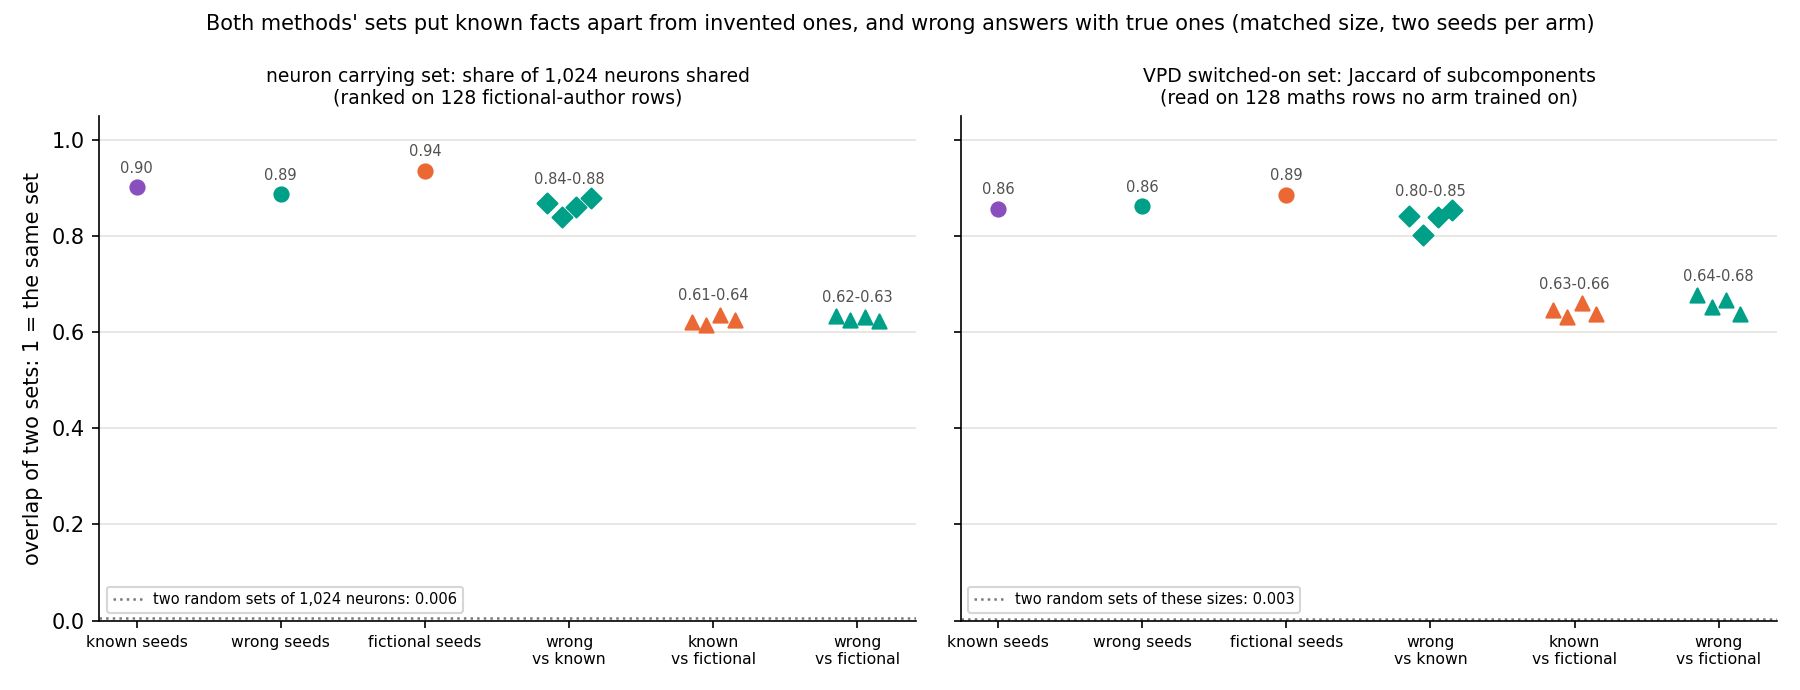
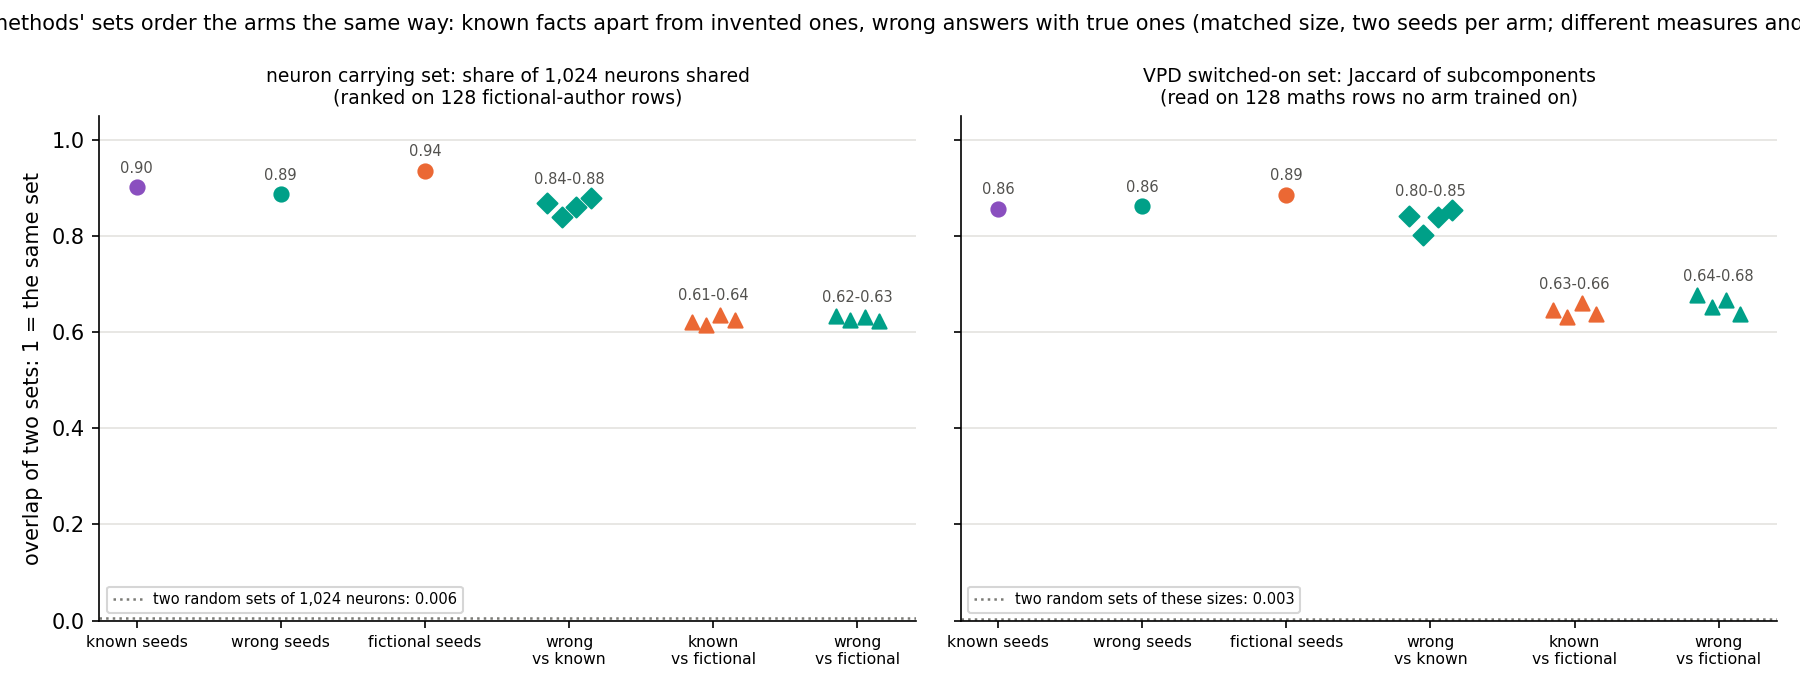
Neurons against VPD table: apply the independent check's five fixes; description class

Changed region(s): [[0.0, 0.0, 1.0, 0.0609]]

diff --git a/experiments/neuron_vpd_table/build.py b/experiments/neuron_vpd_table/build.py
@@ -35,7 +35,8 @@ E109 = EXP / "larger_size/results/score.json"
 E98, M67 = EXP / "neuron_r/results/score.json", EXP / "method_table/results/table.json"
 
 SEP, NOT, NOCALL, NOTRUN = "separates the pair", "does not separate the pair", "no call or no power", "not run"
-COLOUR = {SEP: "#2f7ebc", NOT: "#eb6834", NOCALL: "#c9c6bd", NOTRUN: "#ffffff"}
+DESC = "description, no filed verdict"
+COLOUR = {SEP: "#2f7ebc", NOT: "#eb6834", NOCALL: "#c9c6bd", NOTRUN: "#ffffff", DESC: "#e8e4f0"}
 PURPLE, TEAL, ORANGE, GREY, INK, GRID = "#8a4fbf", "#00a088", "#eb6834", "#7a7a75", "#52514e", "#e4e3df"
 
 
@@ -99,7 +100,8 @@ def known_vs_fictional() -> list[dict[str, Any]]:
     summ_n = cell(NOT, "all four pair rules: " + ", ".join(sorted({r["verdict"] for r in rules.values()})),
                   "; ".join(f"{k.removeprefix('matched_')} gap {r['gap']:+.4f} band {r['band']:.4f}" for k, r in rules.items()),
                   "fictional seeds' mean, band from random draws", E103, ".pair_rules_s142")
-    set_v = cell(SEP, "description only: no filed rule of its own; E107 Amendment 1 used it as its positive control",
+    set_v = cell(DESC, "description, on Jaccard only: no filed rule; on shared-over-smaller the gap is inside the seed "
+                       "band (E107 Amendment 1 blind_to), and the fictional sets are larger",
                  f"Jaccard known seeds {jac['known_s42_matched|known_s142_matched']:.3f}, fictional seeds "
                  f"{jac['a2_s42_matched|a2_s142_matched']:.3f}, known vs fictional {rng(cross)}",
                  "the two arms' seed Jaccards", E107A, ".pairs")
@@ -109,7 +111,7 @@ def known_vs_fictional() -> list[dict[str, Any]]:
                  f"cross {rng(ident['tofu']['cross'])}; disjoint halves of the known rows {rng(rows['tofu']['cross'])}",
                  "band = 1 minus the fictional seeds' overlap", E103, ".identity; rows_null score .real/.tofu .verdict")
     e = a["end"]
-    end_v = cell(NOT, f"outside '{e['outside']['verdict']}', placement '{e['placement']['verdict']}', think "
+    end_v = cell(DESC, f"outside '{e['outside']['verdict']}', placement '{e['placement']['verdict']}', think "
                       f"'{e['think']['verdict']}' (reported, sizes 2.2x apart)",
                  f"f outside {e['outside']['f']:.2f}, think {e['think']['f']:.2f}", "as at matched size", E94A, ".sides.end")
     t = js(E109)["tofu"]
@@ -153,7 +155,7 @@ def small_model() -> list[dict[str, Any]]:
     p1 = js(E98)["rows"]["P1"]
     vr = {r["id"]: r["cells"]["r"]["verdict"] for r in js(M67)["rows"]}
     both = p1["readable_rows"]
-    vpd = cell(SEP, f"VPD's r '{vr[both[0]]}' on {sum(vr[k] == 'separates' for k in both)} of {len(both)} rows",
+    vpd = cell(DESC, f"VPD's r '{vr[both[0]]}' by E51's rule applied afterwards, not a filed verdict, on {sum(vr[k] == 'separates' for k in both)} of {len(both)} rows",
                ", ".join(both), "labels assumed from how each task was built", M67, ".rows[].cells.r.verdict")
     neu = cell(NOT, f"neuron share separates {len(p1['separating_rows'])} of {len(both)} ({', '.join(p1['separating_rows'])}); "
                     f"filed 'not a kind reader': '{p1['status']}'",
@@ -180,7 +182,7 @@ def verdict_grid(rows: list[dict[str, Any]]) -> None:
     ax.set_title("On the same fine-tunes, does each method's filed reading separate the pair?", fontsize=10, pad=24)
     ax.set_ylim(-0.6, len(rows))
     ax.text(0.15, -0.35, "Class is what the filed verdict says about the pair; the verdicts, verbatim, are in "
-            "results/table.json. Grey: no call or no power. White: not run.", ha="center", fontsize=7, color=INK)
+            "results/table.json. Grey: no call or no power. Lilac: description only. White: not run.", ha="center", fontsize=7, color=INK)
     save(fig, "verdicts.png")
 
 
@@ -222,8 +224,8 @@ def sets() -> None:
         ax.grid(axis="y", color=GRID, lw=0.8)
         ax.set_axisbelow(True)
     axes[0].set_ylabel("overlap of two sets: 1 = the same set")
-    fig.suptitle("Both methods' sets put known facts apart from invented ones, and wrong answers with true ones "
-                 "(matched size, two seeds per arm)", fontsize=10)
+    fig.suptitle("Both methods' sets order the arms the same way: known facts apart from invented ones, wrong answers "
+                 "with true ones (matched size, two seeds per arm; different measures and rows)", fontsize=10)
     save(fig, "sets.png")
 
 

diff --git a/reports/analyses/2026-11-06_analysis_neurons-vs-vpd-table.md b/reports/analyses/2026-11-06_analysis_neurons-vs-vpd-table.md
@@ -3,21 +3,23 @@
 *2026-11-06, baseline-lead's table writer, for ask 24 option (a): the table as it stands, from existing reports, no
 runs. Every cell is built by `experiments/neuron_vpd_table/build.py` from the result files named in its source column
 and written to `experiments/neuron_vpd_table/results/table.json`; no verdict is re-scored. Provisional, like every
-report it draws on. Provenance at the end.*
+report it draws on. Independent check: holds with caveat
+(`reports/reviews/2026-11-06_review_neurons-vs-vpd-table-independent-check.md`, commit a4f29839); its five fixes are
+applied here. Provenance at the end.*
 
 We set the neuron baseline's filed verdicts beside VPD's on the same saved Qwen3-1.7B fine-tunes, row by row, from
-eight existing reports. VPD separates the layout fine-tune from the invented-facts one where the neuron readings do
-not, but neither method follows whether the trained facts were already known, and neither reads at the learned size.
-For `GOALS.md`, neither method yet answers "new capability or strengthened one" on Qwen; at the matched size both see
-the data's source and style.
+eight existing reports. At matched size VPD separates the layout fine-tune from the invented-facts one where the neuron
+readings do not, but neither method follows whether the trained facts were already known. For `GOALS.md`, neither
+method yet answers "new capability or strengthened one" on Qwen, and at the learned size neither reads the known or
+wrong-answer pairs.
 
 ## The answer
 
-Neither method yet tells new from existing on Qwen. VPD separates the layout fine-tune from the invented-facts one,
-where the neuron readings do not, but a fine-tune on facts the model already knows, built like the invented one, reads
-on the invented side. Which neurons, or which subcomponents, an update uses separates known from invented facts in both
-methods alike, yet keeps wrong answers beside true ones, so it reads the data's source and style. At the learned size
-neither has a reading.
+Neither method tells new from existing on Qwen. At matched size VPD separates the layout fine-tune from invented
+facts, where neurons do not, but a known-facts fine-tune built alike reads on the invented side. Neurons
+separate known from invented facts; VPD only as description. Wrong answers stay beside true ones, pointing to topic or
+style; VPD's is a narrow no call. At the learned size neither reads these pairs: no neuron power, VPD's wrong-answer
+states unsaved, its known-arm reads description.
 
 ## What the table compares
 
@@ -54,12 +56,12 @@ Verdicts in quotes are verbatim from the source; "class" is what the verdict say
 | layout vs new facts, matched | outside share and placement "counts", think overlap "does not count"; against the anchors' seed spread | prompt overlap "holds" against a random change, but the fictional arm reads 0.051, 0.052 beside the template's 0.056, 0.057, unscored; engaged share "misses"; job judge "no call" | E94 `table.json .comparisons.matched`; E102 `score.json`, `score_stageB.json .CB1_power_gate` |
 | layout vs new facts, learned | outside, placement, think "counts"; random changes of both sizes: "does not count" | no filed comparison of the two | E94 `.comparisons.full` |
 | known vs new facts, matched, summaries | outside "like anchor 2", f 0.90; placement "like anchor 2", f 0.65; think "no call: the anchors do not separate" | all four pair rules "level", each gap inside its band | E94 `table_amend1.json .sides.matched`; E103 `neurons_amend2.json .pair_rules_s142` |
-| known vs new facts, matched, set identity | description only: Jaccard 0.632 to 0.660 across arms, 0.857 and 0.886 within | "beyond seed noise" on both row sets; rows null "label" on both | E107 `amend1_sets.json .pairs`; E103 `.identity`; E105 `score.json` |
-| known vs new facts, learned | outside "like anchor 2", placement "midway: no call", think "like anchor 2", reported only, sizes 2.2 times apart | "no power at this size": seeds share 0.652 | E94 `.sides.end`; E109 `score.json .tofu` |
+| known vs new facts, matched, set identity | description only, on Jaccard: 0.632 to 0.660 across arms, 0.857 and 0.886 within; on shared-over-smaller the gap is inside the seed band, and the fictional sets are larger | "beyond seed noise" on both row sets; rows null "label" on both | E107 `amend1_sets.json .pairs`; E103 `.identity`; E105 `score.json` |
+| known vs new facts, learned | description, not a filed verdict: outside "like anchor 2", placement "midway: no call", think "like anchor 2", reported only, sizes 2.2 times apart | "no power at this size": seeds share 0.652 | E94 `.sides.end`; E109 `score.json .tofu` |
 | wrong vs true answers, matched | "no call": lowest pair 0.80303 against the line 0.80320 | "topic or style" on both row sets | E107 `amend1_sets.json .rule`; E107 `score.json .wrong` |
 | wrong vs true answers, learned | not run: no full-size wrong-answer states saved | "no call", "no power at this size" on both probes | E109 `score.json .tofu, .T` |
 | real authors vs world facts, matched | not run | "topic moves the set" on the TOFU rows; "no call" on the real rows | E107 `score.json .topic` |
-| 67M, built to reuse vs built to be new, assumed labels | VPD's r "separates" on all three rows both read | separates one of three; filed "not a kind reader": "pass" | `method_table/results/table.json`; E98 `score.json .rows.P1` |
+| 67M, built to reuse vs built to be new, assumed labels | description: VPD's r "separates" on all three rows both read, by E51's rule applied afterwards, not a filed verdict | separates one of three; filed "not a kind reader": "pass" | `method_table/results/table.json`; E98 `score.json .rows.P1` |
 
 f places the known arm between the anchors' means, the template at 0 and the fictional arm at 1. E94's "anchor 2" is
 the fictional-facts fine-tune.
@@ -68,22 +70,29 @@ the fictional-facts fine-tune.
 
 ![verdict grid](../../experiments/neuron_vpd_table/figures/verdicts.png)
 
-**Reading it.** VPD separates the first pair and the neurons do not, but VPD's separation follows the training task,
+**Reading it.** At matched size VPD separates the first pair and the neurons do not, but VPD's separation follows the training task,
 not the label. VPD's outside share and placement count between the layout and invented-facts fine-tunes at both sizes;
-the neurons' prompt overlap reads nearly the same for both. The known-facts fine-tune then lands with the invented one
-on VPD's two deciding readings: nine tenths and two thirds of the way. The neurons' four summaries read it level.
-Where a set reading separates known from invented facts, both methods do. At the learned size every cell is grey,
-white or "does not separate".
+the neurons' prompt overlap reads nearly the same for both at matched size, a reading from unscored numbers. The
+known-facts fine-tune then lands with the invented one on VPD's two deciding readings: nine tenths and two thirds of
+the way. The neurons' four summaries read it level. The neuron set separates known from invented facts by its filed
+rule; VPD's set does so only as description. At the learned size only the layout pair separates, on VPD's side.
 
 ## Do the two methods' sets read the same thing?
 
 ![set identity, neurons and VPD](../../experiments/neuron_vpd_table/figures/sets.png)
 
-**Reading it.** Yes, almost number for number, and neither reads familiarity. In both panels two seeds of one arm share
-0.86 to 0.94 of a set. A known-facts and an invented-facts run share about 0.6 in both. The wrong-answer run sits with
-the true-answer run, 0.84 to 0.88 for neurons and 0.80 to 0.85 for VPD. It sits as far from the invented run as the
-true one does. Random sets share under 0.01. The caveat: the measures differ, share-of-first against Jaccard, and so
-do the rows.
+**Reading it.** They place the arms in the same order, and neither shows familiarity. In both panels two seeds of one
+arm share 0.86 to 0.94 of a set, and a known-facts and an invented-facts run share about 0.6. The wrong-answer run sits
+with the true-answer run, as far from the invented run as the true one is. Random sets share under 0.01.
+
+Three caveats keep this from being the same reading. The measures differ: share of the first set against Jaccard. On
+the neurons' measure, VPD's known-against-invented gap falls inside its seed band. The invented arm's VPD sets are
+larger, so part of its lower Jaccard is set size. The rows differ too.
+
+On wrong against true answers, the neurons' filed verdict is "topic or style". VPD's is "no call": its lowest pair read
+0.80303 against the line of 0.80320. Both tests had little room. At matched size the wrong and true updates differ by
+about a seed, with weight cosine 0.825 against two seeds' 0.821. So the result points to topic or style; it does not
+show it.
 
 ## What each reading is blind to
 
@@ -108,10 +117,10 @@ across the two anchors.
 ## What we learned
 
 The neuron baseline does not beat VPD on the user's question, and VPD does not beat it either. Where they can be set
-side by side on Qwen, they agree. Summaries do not see whether facts were known. Set identity sees the data's source
-and style. Neither reads anything at the learned size. VPD's one extra separation, layout against invented facts, is
+side by side on Qwen, they order the arms the same way. Summaries do not see whether facts were known. Set identity
+points to the data's topic or style. Neither reads the known or wrong-answer pairs at the learned size. VPD's one extra separation, layout against invented facts, is
 explained by task and format once the known-facts fine-tune is read. The 67M row, the only place VPD read further than
-neurons, rests on labels assumed from how each task was built.
+neurons, is description by a rule applied afterwards and rests on labels assumed from how each task was built.
 
 ## How compelling is the evidence
 
